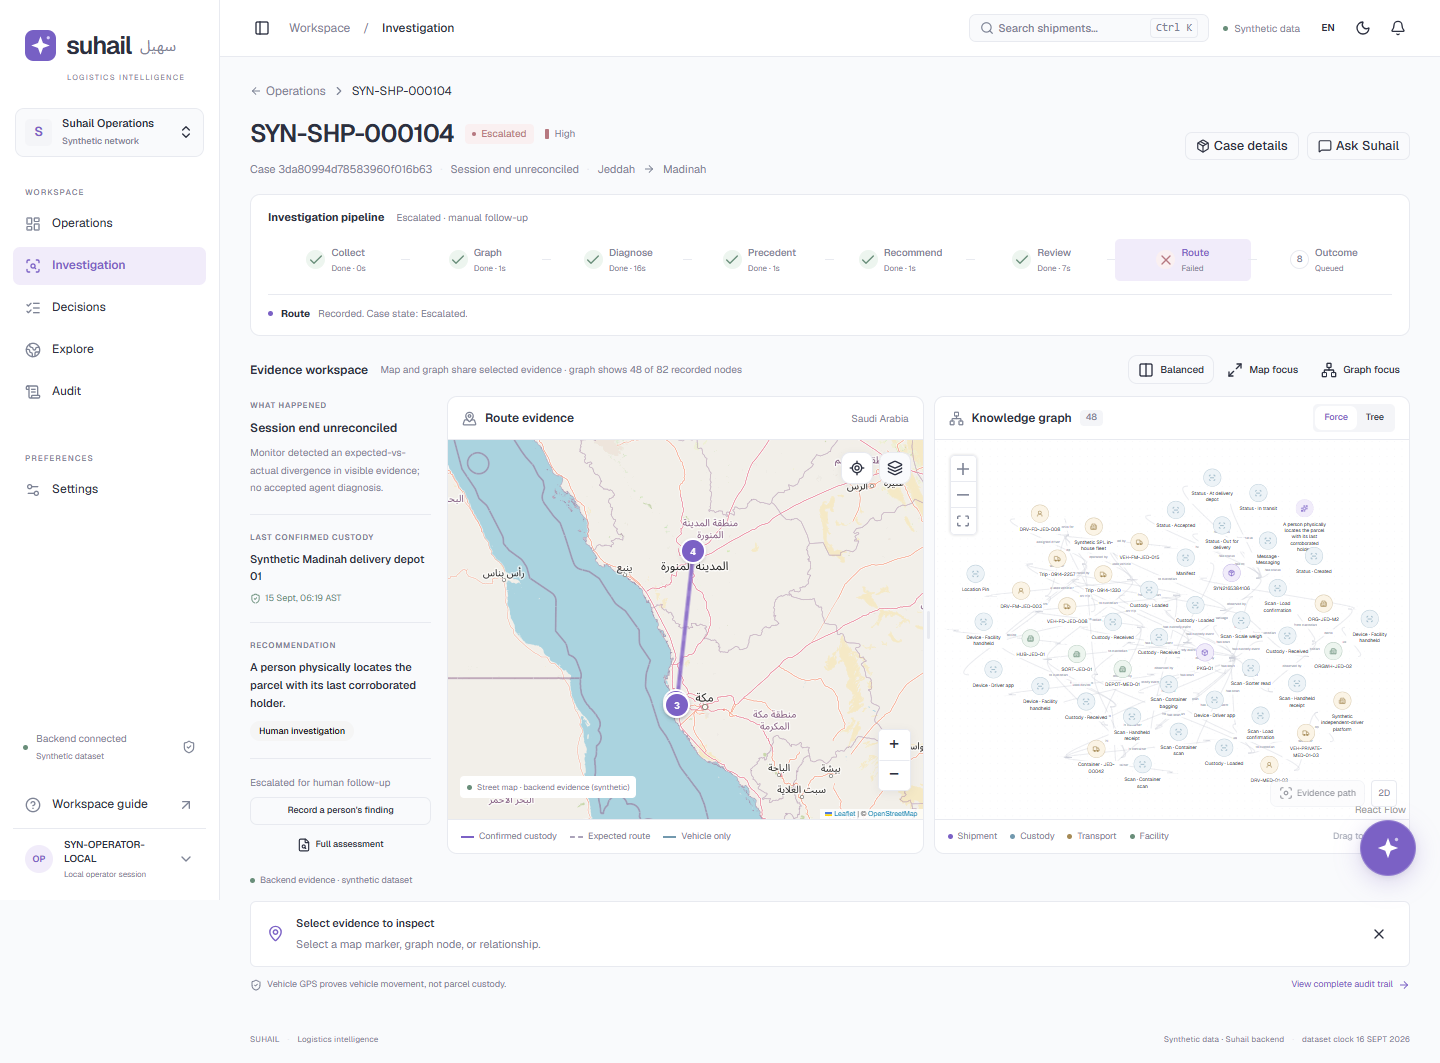
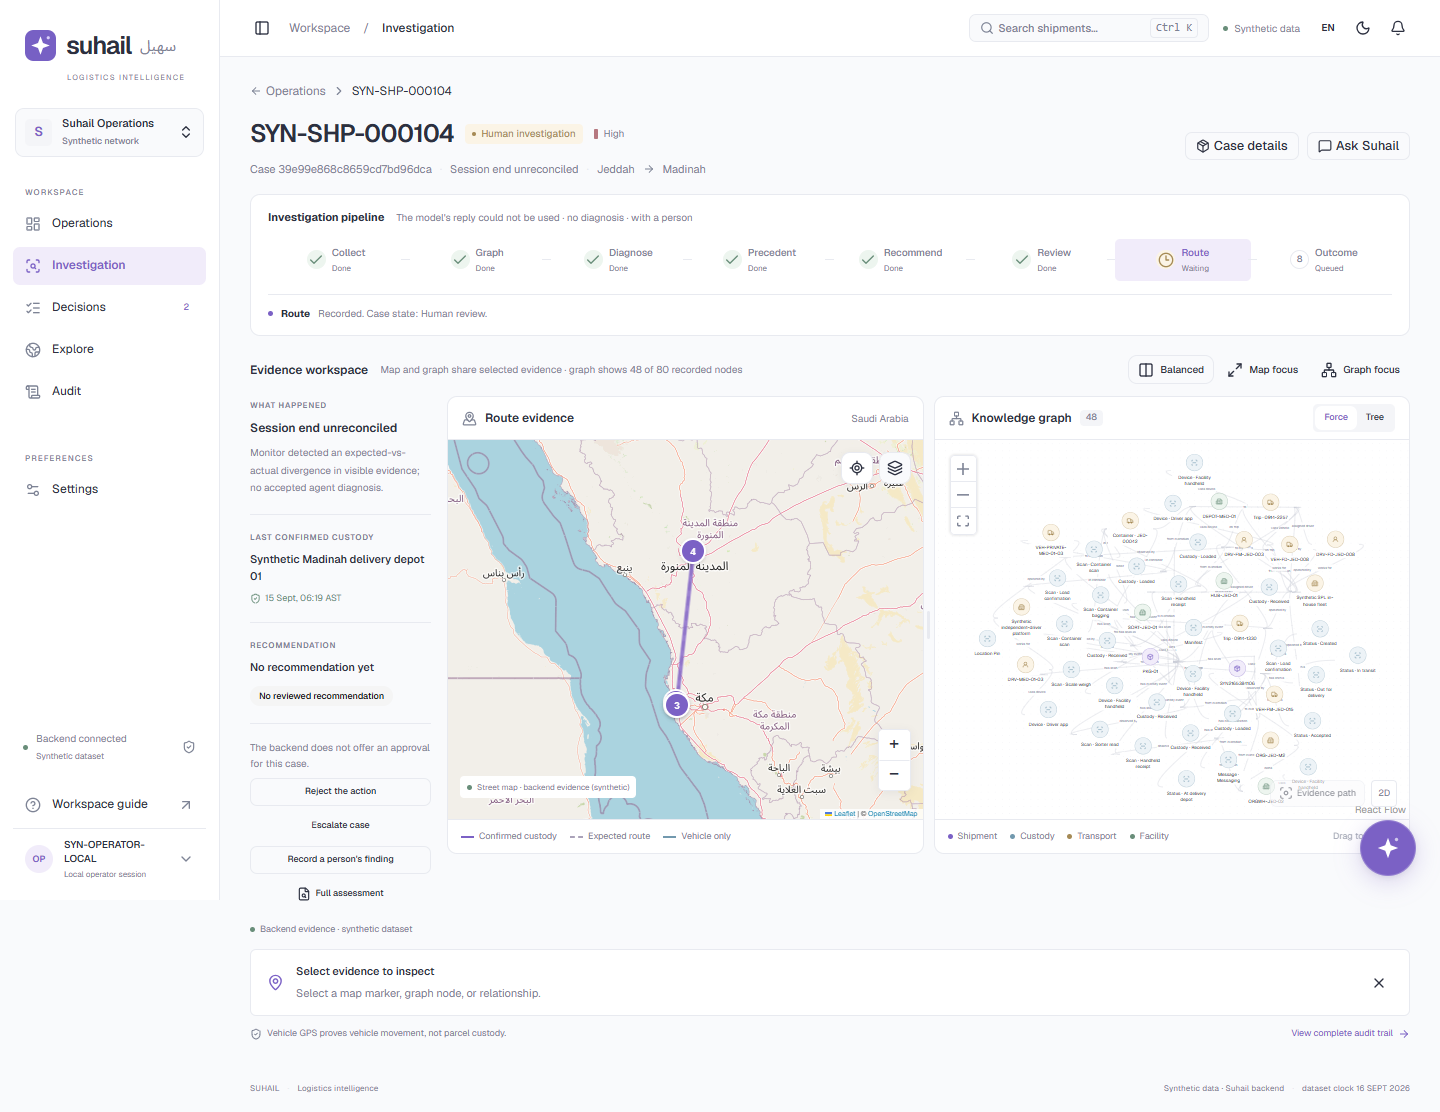
fix(frontend-next): a model outage reads as the model being unavailable, degraded stages are marked on the rail, no reject control without a recommended action; kept-snapshot audit title

diff --git a/frontend-next/src/api/adapters.ts b/frontend-next/src/api/adapters.ts
@@ -462,6 +462,7 @@ export function pipelineView(events: ApiPipelineEvent[]) {
   const stageDetail: Record<number, string> = {};
   const stageEvidence: Record<number, string[]> = {};
   const stageElapsed: Record<number, number> = {};
+  const stageStatus: Record<number, string> = {};
   let repairing: string | null = null;
   let stage = -1;
   for (const event of [...events].sort((a, b) => a.sequence - b.sequence)) {
@@ -469,6 +470,7 @@ export function pipelineView(events: ApiPipelineEvent[]) {
     if (index === undefined) continue;
     stage = Math.max(stage, index);
     stageDetail[index] = stageSummary(event);
+    stageStatus[index] = event.status;
     if (typeof event.elapsed_seconds === "number")
       stageElapsed[index] = event.elapsed_seconds;
     // A repair is live only until the stage's next event (its closing event follows).
@@ -479,7 +481,7 @@ export function pipelineView(events: ApiPipelineEvent[]) {
     if (event.output?.evidence_ids?.length)
       stageEvidence[index] = event.output.evidence_ids;
   }
-  return { stage, stageDetail, stageEvidence, stageElapsed, repairing };
+  return { stage, stageDetail, stageEvidence, stageElapsed, stageStatus, repairing };
 }
 
 const VERDICTS: Record<string, AuthorityDecision["verdict"]> = {
@@ -586,7 +588,10 @@ function investigationLogOf(
       .map((check) => humanize(check.check)),
     nextEvidenceStep: result.investigation?.next_evidence_step ?? null,
     degradedKinds: (result.degraded ?? []).map(
-      (item) => item.kind ?? (item.role === "snapshot" ? "snapshot_changed" : ""),
+      (item) =>
+        item.kind === "snapshot_superseded" || item.role === "snapshot"
+          ? "snapshot_changed"
+          : (item.kind ?? ""),
     ),
     rejectedReplies: [
       ...new Set(
@@ -598,7 +603,7 @@ function investigationLogOf(
     ],
     degraded: (result.degraded ?? []).map((item) => {
       const who = item.role === "reviewer" ? "reviewer" : "investigator";
-      if (item.role === "snapshot")
+      if (item.kind === "snapshot_superseded" || item.role === "snapshot")
         // Not a model failure: the evidence moved while the investigation ran.
         return "Evidence changed during the investigation, so its conclusion rests on a superseded snapshot. A person must review the latest evidence.";
       if (item.kind === "turn_budget_exhausted")
@@ -969,12 +974,17 @@ export function applyDetail(
       diagnosisReason: diagnosis?.available ? null : (diagnosis?.reason ?? null),
       detailLoaded: true,
       detailError: undefined,
-      allowed: allowedFor(workflow, approvable),
+      allowed: {
+        ...allowedFor(workflow, approvable),
+        // With no recommended action there is nothing to reject.
+        ...(detail.recommendation?.action_type ? {} : { reject: false }),
+      },
       approvalRule: detail.recommendation?.approval_rule,
       approvalReason: detail.recommendation?.approval_reason,
       stageDetail: pipeline.stageDetail,
       stageEvidence: pipeline.stageEvidence,
       stageElapsed: pipeline.stageElapsed,
+      stageStatus: pipeline.stageStatus,
       repairing: workflow === "INVESTIGATING" ? pipeline.repairing : null,
       timing: timingOf(detail),
       pipelineStatus: detail.pipeline?.status ?? "UNKNOWN",
@@ -1077,6 +1087,9 @@ export function applyPipeline(
       stageElapsed: queued
         ? {}
         : { ...base.backend.stageElapsed, ...view.stageElapsed },
+      stageStatus: queued
+        ? {}
+        : { ...base.backend.stageStatus, ...view.stageStatus },
       repairing: state.workflow_state === "INVESTIGATING" ? view.repairing : null,
       allowed: allowedFor(
         state.workflow_state,
@@ -1182,6 +1195,9 @@ export function auditEvent(row: ApiAuditEvent): InvestigationStageEvent {
     title:
       row.event_type === "PIPELINE_STAGE"
         ? `${humanize(row.stage)} · ${humanize(row.stage_status) || "recorded"}`
+        : row.event_type === "SNAPSHOT_KEPT"
+          ? // The backend kept the run: nothing material changed.
+            "New records arrived · the finding still stands"
         : `${humanize(row.event_type)}${row.decision ? ` · ${humanize(row.decision)}` : ""}`,
     detail:
       row.result ||

diff --git a/frontend-next/tests/e2e-live/demo-live-arrivals.spec.ts b/frontend-next/tests/e2e-live/demo-live-arrivals.spec.ts
@@ -44,8 +44,12 @@ test("Live arrivals appear in order and each investigation shows its running tim
   const casePage = await context.newPage();
   casePage.on("pageerror", (error) => errors.push(error.message));
   let watching: string | null = null;
+  // Keep watching for a while after the last arrival, so repeat investigations are seen.
+  const settle = Number(process.env.SUHAIL_DEMO_SETTLE_MINUTES ?? 0) * 60 * 1000;
   const done = () =>
-    seen.size >= EXPECTED && [...seen.values()].every((item) => item.final !== undefined);
+    seen.size >= EXPECTED &&
+    [...seen.values()].every((item) => item.final !== undefined) &&
+    Date.now() - Math.max(...[...seen.values()].map((item) => item.arrivedAt)) > settle;
 
   while (!done() && Date.now() - started < MINUTES * 60 * 1000) {
     const queue = await request
@@ -69,7 +73,7 @@ test("Live arrivals appear in order and each investigation shows its running tim
         item.listedAfterMs = Date.now() - item.arrivedAt;
         await page.screenshot({ path: `screenshots/live-queue-${seen.size}.png` });
       }
-      if (!/^(OPEN|INVESTIGATING)$/.test(row.workflow_state) && item.final === undefined) {
+      if (!/^(OPEN|REOPENED|INVESTIGATING)$/.test(row.workflow_state) && item.final !== row.workflow_state) {
         item.final = row.workflow_state;
         console.log(`+${Math.round((Date.now() - started) / 1000)}s ${row.shipment_id} -> ${row.workflow_state}`);
         if (watching === row.case_id) {
@@ -111,7 +115,25 @@ test("Live arrivals appear in order and each investigation shows its running tim
     await page.waitForTimeout(2000);
   }
   const report = [...seen.values()];
-  writeFileSync("test-results/live-arrivals.json", JSON.stringify({ errors, report }, null, 2));
+  // The backend's own account of why runs repeated or were kept, for the report.
+  const audit: unknown[] = [];
+  let cursor: string | null = null;
+  for (let pageNo = 0; pageNo < 8; pageNo++) {
+    const body: { items?: unknown[]; next_cursor?: string | null } = await request
+      .get(`/audit?limit=100${cursor ? `&cursor=${encodeURIComponent(cursor)}` : ""}`)
+      .then((response) => response.json())
+      .catch(() => ({}));
+    audit.push(...(body.items ?? []));
+    cursor = body.next_cursor ?? null;
+    if (!cursor) break;
+  }
+  const details: unknown[] = [];
+  for (const id of seen.keys())
+    details.push(await request.get(`/cases/${id}`).then((r) => r.json()).catch(() => null));
+  writeFileSync(
+    "test-results/live-arrivals.json",
+    JSON.stringify({ errors, report, audit, details }, null, 2),
+  );
   for (const item of report)
     console.log(
       `${item.shipment}: final ${item.final ?? "not finished"}; listed after ${item.listedAfterMs ?? "never"} ms; ${item.headers.length} header texts; running clock seen: ${item.headers.some((text) => /in progress · \d/.test(text))}`,

diff --git a/frontend-next/src/pages/investigation.tsx b/frontend-next/src/pages/investigation.tsx
@@ -424,6 +424,13 @@ export function InvestigationPage() {
                         "Evidence changed during the investigation · a person must review the latest evidence",
                         "تغيرت الأدلة أثناء التحقيق · على شخص مراجعة أحدث الأدلة",
                       )
+                  : c.backend?.investigationLog?.degradedKinds.includes(
+                        "model_unavailable",
+                      ) && !c.backend.diagnosisAvailable
+                    ? t(
+                        "The model was unavailable · no investigation result · with a person",
+                        "النموذج غير متاح · لا نتيجة تحقيق · لدى شخص",
+                      )
                   : c.backend?.investigationLog?.degraded.length &&
                       !c.backend.diagnosisAvailable
                     ? t(
@@ -517,7 +524,10 @@ export function InvestigationPage() {
           {stages.map((s, i) => {
             const state = !c.run
               ? "queued"
-              : c.status === "resolved" || i < c.run.stage
+              : // A stage the backend recorded as degraded did not produce its result.
+                i <= c.run.stage && c.backend?.stageStatus?.[i] === "DEGRADED"
+                ? "failed"
+                : c.status === "resolved" || i < c.run.stage
                 ? "completed"
                 : i === c.run.stage
                   ? c.status === "escalated" ||

diff --git a/frontend-next/tests/e2e-live/demo-stories.spec.ts b/frontend-next/tests/e2e-live/demo-stories.spec.ts
@@ -51,7 +51,8 @@ for (const id of CASES)
       await expect(context).toContainText(/no accepted agent diagnosis|Monitor detected/i);
     // Evidence that moved during the run is not a model failure and leaves the diagnosis shown.
     const snapshot = (result.degraded ?? []).some(
-      (item: { role?: string }) => item.role === "snapshot",
+      (item: { role?: string; kind?: string }) =>
+        item.role === "snapshot" || item.kind === "snapshot_superseded",
     );
     if (snapshot)
       await expect(page.locator(".pipeline-meta")).toContainText(
@@ -61,6 +62,8 @@ for (const id of CASES)
       await expect(page.locator(".pipeline-meta")).toContainText(
         degraded.some((item) => item.kind === "turn_budget_exhausted")
           ? "reached no conclusion within its turn budget"
+          : degraded.some((item) => item.kind === "model_unavailable")
+            ? "The model was unavailable"
           : "The model's reply could not be used",
       );
     if (execution?.status === "NOT_ACKNOWLEDGED" && !degraded.length)

diff --git a/frontend-next/src/domain/types.ts b/frontend-next/src/domain/types.ts
@@ -169,6 +169,8 @@ export interface BackendCaseState {
   stageDetail: Record<number, string>;
   /** Evidence ids the recorded stage cited, by UI stage index. */
   stageEvidence: Record<number, string[]>;
+  /** Each stage's latest recorded status (e.g. COMPLETED, DEGRADED). */
+  stageStatus?: Record<number, string>;
   /** Seconds into the run at each stage's latest event, as the backend measured them. */
   stageElapsed?: Record<number, number>;
   /** Set while the backend is asking a role again after an invalid model reply. */
